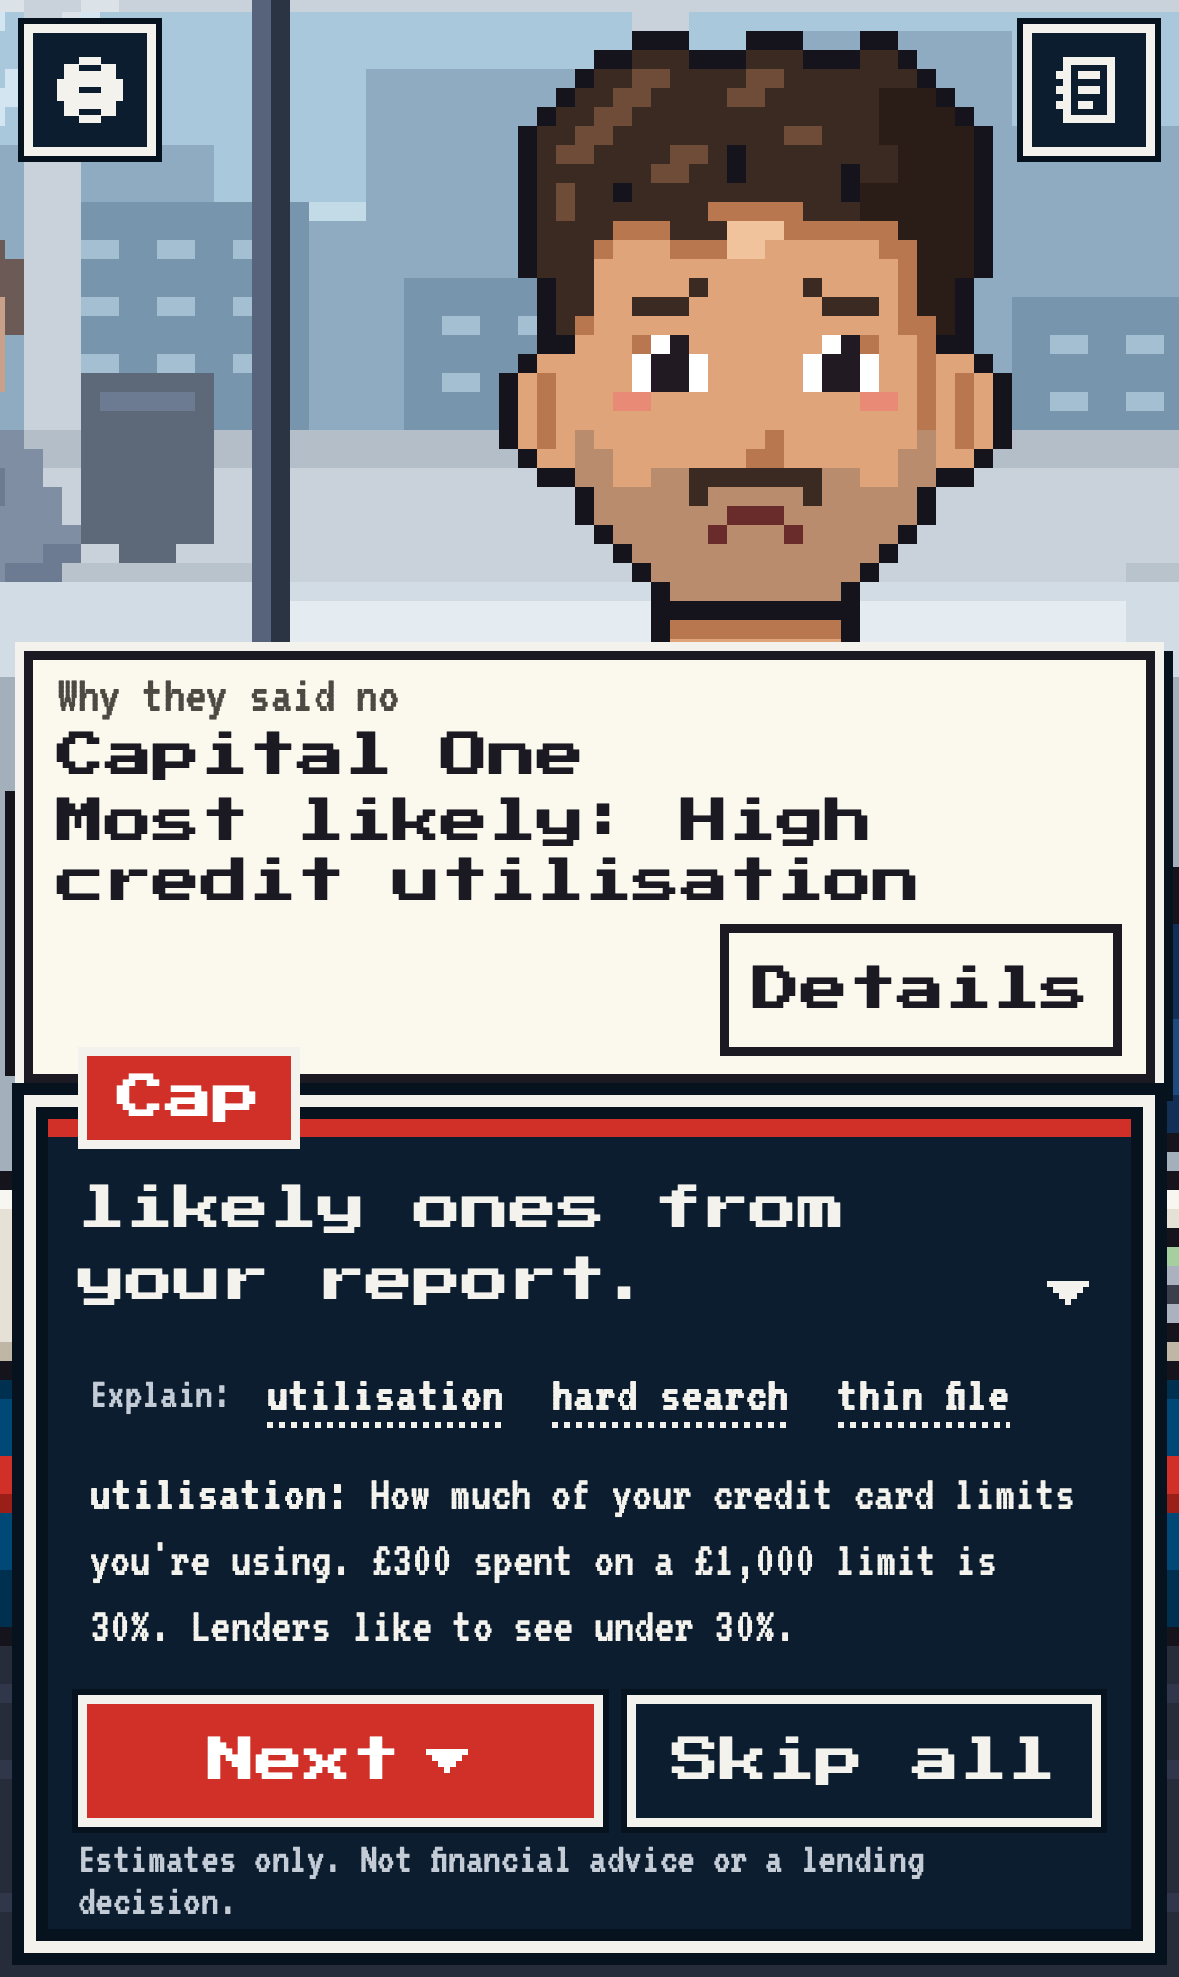
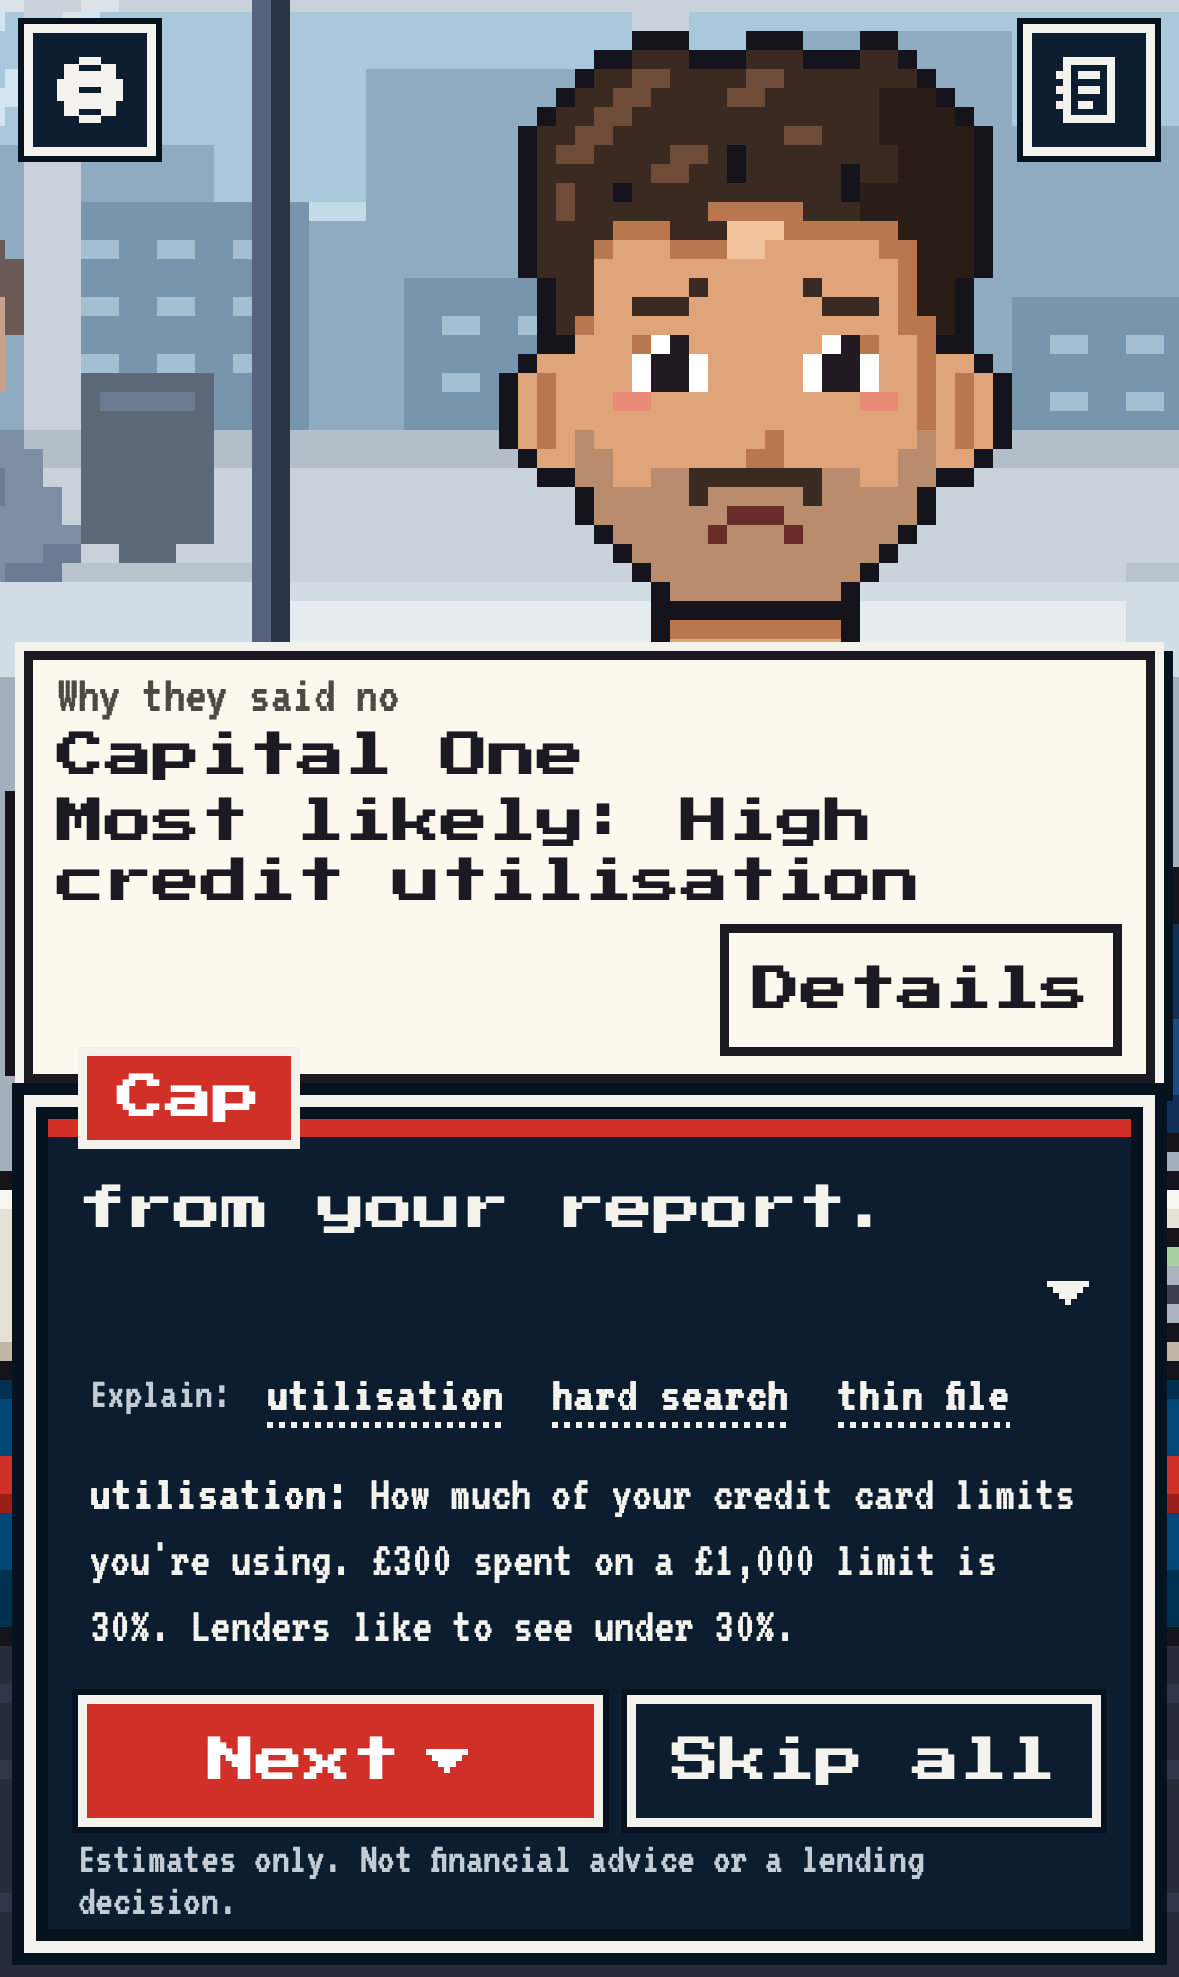
Page breaks never mid-clause: sentence end, else colon/semicolon, else comma/dash (a long sentence at its last comma that fits), else before a joining word; no one-word orphan pages; demo re-walked (20 taps, 113 s)

Changed region(s): [[0.2748, 0.5862, 0.7328, 0.6788], [0.0611, 0.5862, 0.2443, 0.6788], [0.2443, 0.5862, 0.2748, 0.6171]]

diff --git a/app/frontend/src/game/GameBox.tsx b/app/frontend/src/game/GameBox.tsx
@@ -49,13 +49,40 @@ function Tail({ place }: { place: BubblePlace }) {
   )
 }
 
-/** A word that ends a sentence (or a clause worth a pause): a good place to end a page. */
-const ENDS = /[.!?:;]["'’”)]*$/
+// Where a page may end (117): never mid-clause. Best first: a sentence end; a colon or semicolon; a comma or
+// a dash; before a joining word (and, but, because...). Only a clause with none of these breaks at the last
+// word that fits.
+const SENTENCE = /[.!?]["'’”)\]]*$/
+const CLAUSE = /[:;]["'’”)\]]*$/
+const COMMA = /[,—–]["'’”)\]]*$|^[-—–]$/
+const JOIN = /^(and|but|or|so|because|if|when|while|until|then|which|who|where|unless|though|although|since|whereas)$/i
+/** A clause with no punctuation that is longer than a page: break before a phrase ("towards the card"), not inside it. */
+const PREP = /^(from|to|at|of|for|with|towards|in|on|by|about|under|over|into|after|before|without|through|across)$/i
+const bare = (w: string | undefined) => (w ?? '').replace(/[^A-Za-z]/g, '')
+const joins = (w: string | undefined) => JOIN.test(bare(w))
+
+/** How many words of a full page to keep on it: up to its best break (at least one word). */
+function cutAt(ws: string[]): number {
+  for (const re of [SENTENCE, CLAUSE, COMMA]) {
+    for (let j = ws.length; j >= 1; j--) if (re.test(ws[j - 1])) return j
+  }
+  // no punctuation: before a joining word, else before a preposition, keeping at least a quarter of the page
+  const min = Math.max(1, Math.ceil(ws.length / 4))
+  for (const re of [JOIN, PREP]) {
+    for (let j = ws.length - 1; j >= min; j--) if (re.test(bare(ws[j]))) return j
+  }
+  return ws.length
+}
+
+/** A clean break after word j-1 (before word j). */
+const cleanAt = (ws: string[], j: number) =>
+  SENTENCE.test(ws[j - 1] ?? '') || CLAUSE.test(ws[j - 1] ?? '') || COMMA.test(ws[j - 1] ?? '') || joins(ws[j]) || PREP.test(bare(ws[j]))
 
 /**
  * Split `text` into pages that each fit `lines` lines in `measurer` (same width and font as the box).
- * Like a game script: a full page ends at its last sentence end when that keeps at least half of it, and
- * a last page of a word or two ("start?" alone) takes the start of its sentence back from the page before.
+ * 117: a full page ends at its best break (cutAt): a sentence end, else a colon or semicolon, else a comma or
+ * dash, else before a joining word; a sentence longer than a page breaks at the last comma that fits. A last
+ * page of a word or two that continues the page before takes words back only at such a break.
  */
 function paginate(text: string, measurer: HTMLElement, lines: number, extraLine: boolean): string[] {
   const lh = parseFloat(getComputedStyle(measurer).lineHeight) || 24
@@ -72,18 +99,11 @@ function paginate(text: string, measurer: HTMLElement, lines: number, extraLine:
       cur.push(w)
       continue
     }
-    let cut = cur.length
-    for (let j = cur.length - 1; j >= Math.ceil(cur.length / 2); j--) {
-      if (ENDS.test(cur[j - 1] ?? '')) {
-        cut = j
-        break
-      }
-    }
-    pages.push(cur.slice(0, cut))
-    cur = cur.slice(cut)
-    if (cur.length && !fits([...cur, w])) {
-      pages.push(cur)
-      cur = []
+    // the page is full: end it at its best break and carry the rest over (again if the rest is still too long)
+    while (cur.length && !fits([...cur, w])) {
+      const j = cutAt(cur)
+      pages.push(cur.slice(0, j))
+      cur = cur.slice(j)
     }
     cur.push(w)
   }
@@ -91,24 +111,25 @@ function paginate(text: string, measurer: HTMLElement, lines: number, extraLine:
 
   const tail = pages[pages.length - 1]
   const prev = pages[pages.length - 2]
-  if (tail && prev && tail.length <= 2) {
+  // a last page of a word or two that finishes the page before's sentence ("report."): balance them
+  if (tail && prev && tail.length <= 2 && !SENTENCE.test(prev[prev.length - 1] ?? '') && !CLAUSE.test(prev[prev.length - 1] ?? '') && !COMMA.test(prev[prev.length - 1] ?? '')) {
     if (extraLine && lines < 4 && fitsIn([...prev, ...tail], lines + 1)) {
-      // 2 or 3 lines a page: one more line is fine
+      // 2 or 3 lines a page (116's whole-desk layout): one more line is fine
       pages.splice(-2, 2, [...prev, ...tail])
     } else {
-      // take back the start of the tail's sentence, or a few words, keeping at least half the page before
+      // take back the end of the page before, from a clean break that keeps at least half of it
       const keep = Math.ceil(prev.length / 2)
-      let k = prev.length
+      let moved = false
       for (let j = prev.length - 1; j >= keep; j--) {
-        if (ENDS.test(prev[j - 1] ?? '')) {
-          if (fits([...prev.slice(j), ...tail])) k = j
-          break
+        if (!cleanAt(prev, j)) continue
+        if (fits([...prev.slice(j), ...tail])) {
+          pages.splice(-2, 2, prev.slice(0, j), [...prev.slice(j), ...tail])
+          moved = true
         }
+        break
       }
-      if (k === prev.length) {
-        while (k > keep && prev.length - k + tail.length < 4 && fits([...prev.slice(k - 1), ...tail])) k--
-      }
-      if (k < prev.length) pages.splice(-2, 2, prev.slice(0, k), [...prev.slice(k), ...tail])
+      // no clean break to move ("…holding you back" / "most."): one page with a line more, never an orphan
+      if (!moved && lines < 4 && fitsIn([...prev, ...tail], lines + 1)) pages.splice(-2, 2, [...prev, ...tail])
     }
   }
   measurer.textContent = ''

diff --git a/handoffs/117-cap-closer-framing.md b/handoffs/117-cap-closer-framing.md
@@ -206,3 +206,16 @@ Findings and what was done (fixed in `cc3f1e8`):
   - The user asked to show the options PNG path as soon as it existed. It was shown.
   - The user asked to work on `main` without switching branches.
   - The user asked to push and print the phone URL: `main` is pushed after this commit. `ipconfig getifaddr en0` gave `100.65.209.5`, not the hotspot's 172.20.10.6, so the laptop was not on the hotspot at the time.
+
+### After 117: page breaks (2026-11-08, asked by the user)
+- Page breaks never fall mid-clause now (`paginate` in `game/GameBox.tsx`). A full page ends at, in order of preference:
+  1. its last sentence end;
+  2. else the last colon or semicolon;
+  3. else the last comma or dash. A sentence longer than a page breaks at the last comma that fits.
+  4. Else, before a joining word (and, but, because…).
+- Only a clause with no punctuation at all breaks before a preposition ("Give me a moment to build your plan" / "towards the Balance Transfer card."), keeping at least a quarter of the page.
+- A one-word last page that has no clean split joins the page before as a fourth line, rather than standing alone ("…holding you back most.").
+- **Audit** (`audit.py` over every page shown):
+  - Live demo walk: 45 breaks; 40 at a sentence end, colon, comma, dash or joining word; 5 before a preposition; **0 mid-clause**.
+  - The whole declined branch on the mock: 48 breaks, **0 mid-clause** (before the fix: 4 mid-clause on the demo path, all one-word orphans like "report.").
+- Demo re-walked live: `TOTAL 20 taps, 113.2s`, exit 0. `checks.mjs`: `all 20 passed`. Pages are a little shorter, since a page now ends at the sentence end, so the demo is about 5 s longer.

diff --git a/deliverables/pitch/demo-script.md b/deliverables/pitch/demo-script.md
@@ -33,7 +33,7 @@ Taps are numbered. Times are from the real run, with a robot tapping at once; le
 | 1:46 | **20** "What if I pay £400 a month?" | "Paying £400 extra a month: by Feb 2027 your score could be 747 to 854, up from 735 to 836. An estimate. You'd get under 30% by Jan 2027." with the **What if** window | "She can ask what if. Plain English, read aloud, voice in, colour-safe modes. Credit made understandable, one conversation at a time." |
 | 1:51 | End. Optional: the notebook (top right) → **Your plan** | Every card so far in Cap's notebook | |
 
-**Taps**: 20, all listed above (from the real run: `TOTAL 20 taps, 108.2s`). The run took 1:48 with a robot tapping at once, so about 2:05 with your own taps. Every choice the script taps is on the first page of its menu on the iPhone 15.
+**Taps**: 20, all listed above (from the real run: `TOTAL 20 taps, 113.2s`, 2026-11-08 after the page-break fix). The run took 1:53 with a robot tapping at once, so about 2:10 with your own taps. Every choice the script taps is on the first page of its menu on the iPhone 15.
 
 Optional beats, if there is time:
 - **Why? at 1:30** (+2 taps, about 8 s): tap **Why?** on the Reason 1 window, show the because drawer (the rule, her data, the source), close it. Demo mode then moves on by itself; tap Skip all as before.
